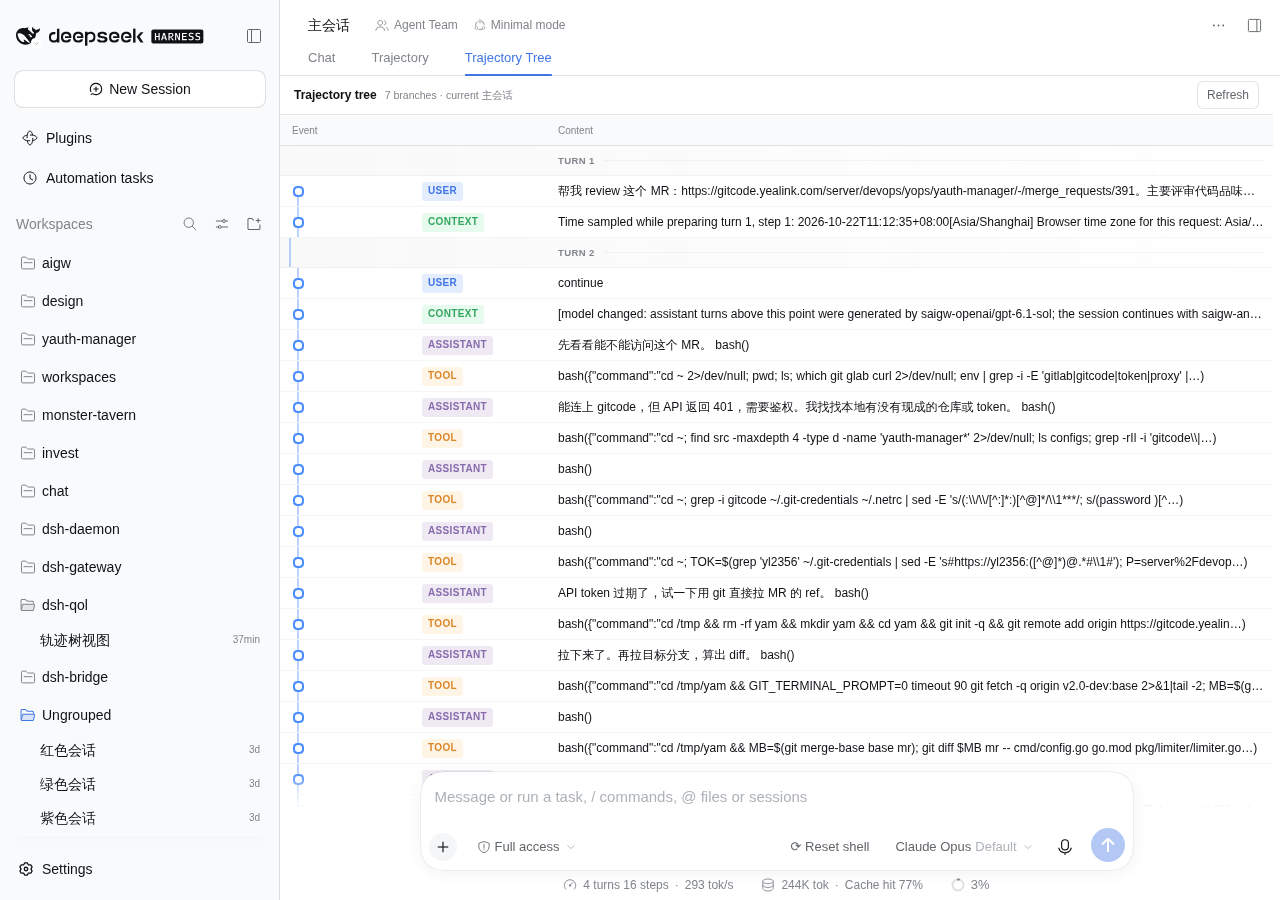
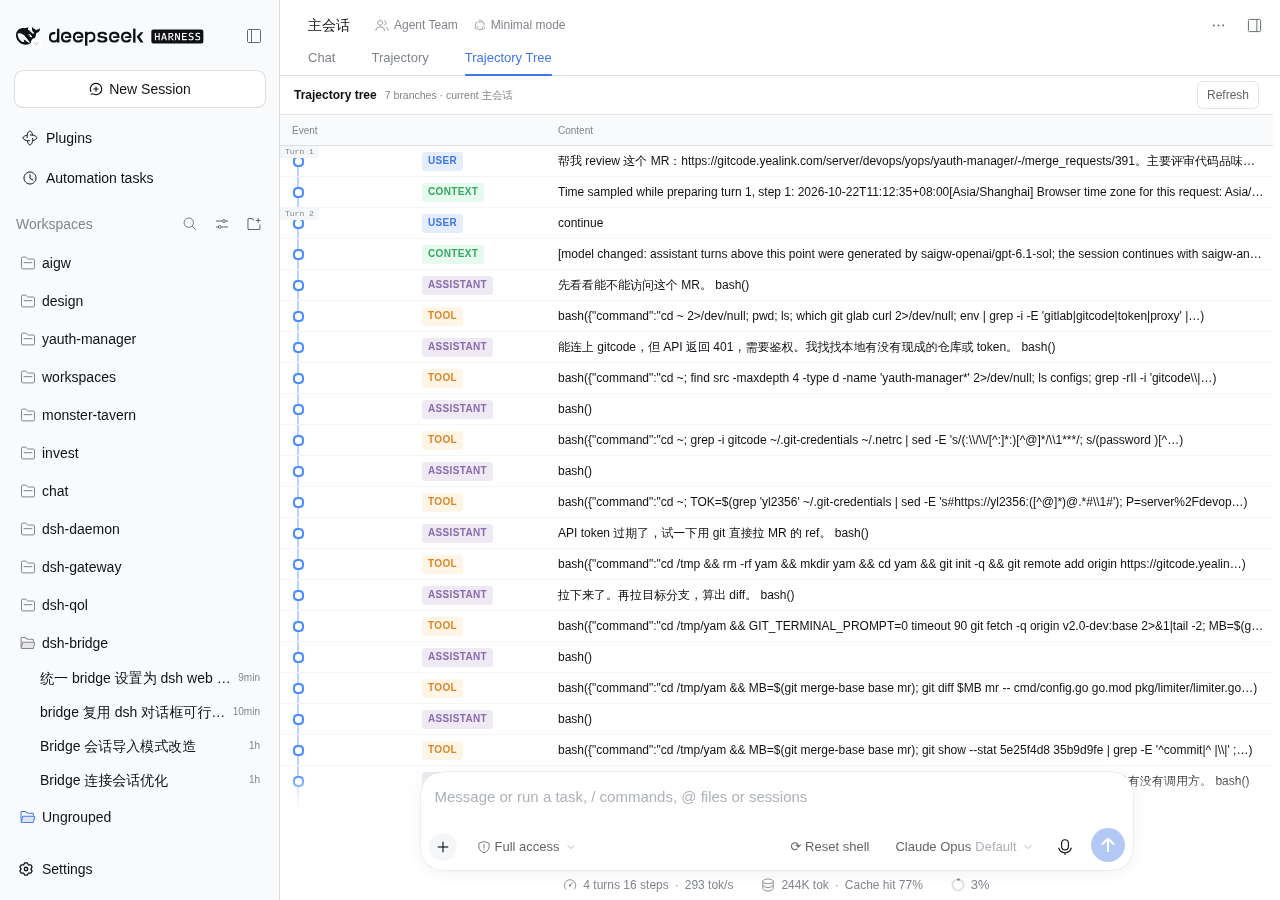
fix(dsh-session-tree): pin turn labels to the first row of each turn
Trajectory renders `Turn N` as a small overlay in the top-left corner of the
turn's first event row rather than as its own divider. The Trajectory Tree now
does the same: the turn marker is an absolutely positioned label inside the
row, so it no longer adds a 30px band or visually indents the following rows.

diff --git a/packages/dsh-session-tree/src/client.js b/packages/dsh-session-tree/src/client.js
@@ -133,9 +133,9 @@ window.__ModuleLoader__.load({
       '.dstt-head > span{padding:0 8px}',
       '.dstt-head > span:first-child{text-align:left;padding-left:12px}',
       '.dstt-scroll{flex:1;min-height:0;overflow:auto;padding-bottom:calc(var(--dsh-composer-height,152px) + 16px);scrollbar-width:thin;scrollbar-color:var(--dsw-alias-scrollbar-bg-l2) transparent}',
-      '.dstt-row{display:grid;grid-template-columns:var(--dstt-event-col,236px) minmax(0,1fr);height:30px;border-bottom:.5px solid var(--dsw-alias-border-l1);transition:background-color 120ms var(--ds-ease-in-out)}',
+      '.dstt-row{position:relative;display:grid;grid-template-columns:var(--dstt-event-col,236px) minmax(0,1fr);height:30px;border-bottom:.5px solid var(--dsw-alias-border-l1);transition:background-color 120ms var(--ds-ease-in-out)}',
       '.dstt-row:hover{background:var(--dsw-alias-interactive-bg-hover)}',
-      '.dstt-eventCell{display:flex;align-items:center;justify-content:flex-start;gap:6px;min-width:0;padding:0 8px 0 8px;overflow:hidden}',
+      '.dstt-eventCell{position:relative;display:flex;align-items:center;justify-content:flex-start;gap:6px;min-width:0;padding:0 8px 0 8px;overflow:hidden}',
       '.dstt-graph{position:relative;flex:none;height:30px}',
       '.dstt-graph svg{position:absolute;inset:0;overflow:visible;pointer-events:none}',
       '.dstt-lane{fill:none;stroke-width:1.4;stroke-linecap:round;opacity:.55}',
@@ -155,10 +155,7 @@ window.__ModuleLoader__.load({
       '.dstt-branchChip::before{content:"";width:4px;height:4px;border-radius:50%;background:var(--dstt-lane-color,var(--dsw-alias-state-business-primary));flex:none}',
       '.dstt-forkNote{flex:none;color:var(--dsw-alias-label-tertiary);font-size:9px;font-variant-numeric:tabular-nums}',
       '.dstt-hiddenNote{flex:none;margin-left:auto;color:var(--dsw-alias-label-tertiary);font-size:9.5px}',
-      '.dstt-turnRow{height:29px;background:linear-gradient(90deg,color-mix(in srgb,var(--dsw-alias-label-tertiary) 5%,transparent),transparent)}',
-      '.dstt-turnGraphCell{position:relative;display:flex;align-items:center;min-width:0;overflow:hidden}',
-      '.dstt-turnLabel{display:flex;align-items:center;gap:8px;min-width:0;padding:0 8px;color:var(--dsw-alias-label-tertiary);font-size:9.5px;font-weight:600;letter-spacing:.04em;text-transform:uppercase}',
-      '.dstt-turnLabel::after{content:"";flex:1;height:1px;background:var(--dsw-alias-border-l1)}',
+      '.dstt-turnLabel{position:absolute;z-index:3;top:0;left:0;max-width:100%;padding:1px 5px;border-radius:0 0 2px;background:var(--dsw-alias-bg-module-platform);color:var(--dsw-alias-label-tertiary);font:8px/10px var(--ds-font-family-code);font-variant-numeric:tabular-nums;white-space:nowrap;overflow:hidden;text-overflow:ellipsis;pointer-events:none;user-select:none}',
       '.dstt-empty{display:flex;align-items:center;justify-content:center;height:100%;padding:24px;color:var(--dsw-alias-label-tertiary);font-size:12px;text-align:center}',
       '.dstt-toast{position:fixed;left:50%;bottom:28px;transform:translateX(-50%);z-index:1300;max-width:min(620px,calc(100vw - 32px));box-sizing:border-box;border-radius:10px;padding:9px 13px;background:var(--dsw-alias-bg-layer-1,var(--dsw-alias-bg-primary));box-shadow:var(--dsw-elevation-prominent,0 10px 30px rgba(0,0,0,.24));color:var(--dsw-alias-label-primary);font-size:12px;line-height:18px}',
     ].join('')
@@ -601,25 +598,25 @@ window.__ModuleLoader__.load({
       const lastTurnBySession = new Map()
       for (const row of eventRows) {
         const previousTurn = lastTurnBySession.get(row.sessionId)
-        if (row.lane === 0
+        const turnStart = row.lane === 0
           && pathSet.has(row.sessionId)
           && typeof row.event?.turn === 'number'
-          && row.event.turn !== previousTurn) {
-          lastTurnBySession.set(row.sessionId, row.event.turn)
-          decorated.push({ kind: 'turn', turn: row.event.turn, sessionId: row.sessionId, rowPosition: decorated.length })
+          && row.event.turn !== previousTurn
+        if (turnStart) lastTurnBySession.set(row.sessionId, row.event.turn)
+        const decoratedRow = {
+          ...row,
+          rowPosition: decorated.length,
+          ...(turnStart ? { turnStart: row.event.turn } : {}),
         }
-        const decoratedRow = { ...row, rowPosition: decorated.length }
         decoratedByOriginal.set(row, decoratedRow)
         decorated.push(decoratedRow)
       }
 
       // Convert the fork-anchor references into a per-row edge plan.
       const indexOfRow = new Map()
-      decorated.forEach((row, index) => {
-        if (row.kind === 'event') indexOfRow.set(row, index)
-      })
+      decorated.forEach((row, index) => indexOfRow.set(row, index))
       for (const [childIndex, row] of decorated.entries()) {
-        if (row.kind !== 'event' || !row.branchStart || row.forkAnchorRow === undefined) continue
+        if (!row.branchStart || row.forkAnchorRow === undefined) continue
         const anchorDecorated = decoratedByOriginal.get(row.forkAnchorRow)
         const anchorIndex = anchorDecorated === undefined ? undefined : indexOfRow.get(anchorDecorated)
         if (anchorIndex === undefined || childIndex <= anchorIndex) continue
@@ -639,7 +636,6 @@ window.__ModuleLoader__.load({
       const firstByLane = new Map()
       const lastByLane = new Map()
       decorated.forEach((row, index) => {
-        if (row.kind !== 'event') return
         if (!firstByLane.has(row.lane)) firstByLane.set(row.lane, index)
         lastByLane.set(row.lane, index)
       })
@@ -733,18 +729,6 @@ window.__ModuleLoader__.load({
       )
     }
 
-    function TreeTurnRow({ row, maxLane, firstByLane, lastByLane }) {
-      return React.createElement('div', { className: 'dstt-row dstt-turnRow' },
-        React.createElement('div', { className: 'dstt-turnGraphCell' },
-          React.createElement('span', {
-            className: 'dstt-graph',
-            style: { width: `${(maxLane + 1) * 20 + 8}px` },
-          }, React.createElement(TreeLanes, { row, maxLane, firstByLane, lastByLane })),
-        ),
-        React.createElement('div', { className: 'dstt-turnLabel' }, t('turn', { turn: row.turn })),
-      )
-    }
-
     function TreeRow({ row, maxLane, firstByLane, lastByLane, onToggle }) {
       const color = treeLaneColor(row.lane)
       const graph = TreeGraph({ row, maxLane, firstByLane, lastByLane, onToggle })
@@ -754,10 +738,14 @@ window.__ModuleLoader__.load({
         'data-branch-id': row.branchId,
         'data-mainline': row.isMainline || undefined,
         'data-lane': row.lane,
+        'data-turn-start': row.turnStart !== undefined || undefined,
         style: { '--dstt-lane-color': color },
       },
         React.createElement('div', { className: 'dstt-eventCell' },
           graph,
+          row.turnStart === undefined
+            ? null
+            : React.createElement('span', { className: 'dstt-turnLabel' }, t('turn', { turn: row.turnStart })),
           React.createElement('span', {
             className: 'dstt-kindTag',
             'data-kind': treeKindForRole(row.event.role),
@@ -842,22 +830,14 @@ window.__ModuleLoader__.load({
         React.createElement('div', { className: 'dstt-scroll' },
           projection.rows.length === 0
             ? React.createElement('div', { className: 'dstt-empty' }, t('empty'))
-            : projection.rows.map((row, index) => row.kind === 'turn'
-                ? React.createElement(TreeTurnRow, {
-                    key: `turn-${row.turn}-${index}`,
-                    row,
-                    maxLane: projection.maxLane,
-                    firstByLane: projection.firstByLane,
-                    lastByLane: projection.lastByLane,
-                  })
-                : React.createElement(TreeRow, {
-                    key: `${row.sessionId}-${row.event.seq}-${index}`,
-                    row,
-                    maxLane: projection.maxLane,
-                    firstByLane: projection.firstByLane,
-                    lastByLane: projection.lastByLane,
-                    onToggle,
-                  })),
+            : projection.rows.map((row, index) => React.createElement(TreeRow, {
+                key: `${row.sessionId}-${row.event.seq}-${index}`,
+                row,
+                maxLane: projection.maxLane,
+                firstByLane: projection.firstByLane,
+                lastByLane: projection.lastByLane,
+                onToggle,
+              })),
         ),
       )
     }

diff --git a/packages/dsh-session-tree/README.md b/packages/dsh-session-tree/README.md
@@ -6,7 +6,7 @@ A DSH Web component that adds a dedicated **Trajectory Tree** conversation View,
 
 - **Dedicated Trajectory Tree tab** — its own Conversation View beside Chat and Trajectory. It does not inject into or restyle the native Trajectory ledger.
 - **Git-style lanes** — the Session path you are viewing is re-rooted as lane 0 (the main trunk). Every ancestor Session's other forks and its own later events become side lanes, including an explicit `Original mainline` lane when you are viewing a fork. There are no merge edges.
-- **DSH-native visual language** — the same 30px ledger rows, kind pills, turn separators, borders, and muted colors as Trajectory.
+- **DSH-native visual language** — the same 30px ledger rows, kind pills, borders, and muted colors as Trajectory. The `Turn N` label sits in the top-left corner of the turn's first row, exactly like Trajectory, without a separate divider row.
 - **Expand / collapse** — a `−/+` node at each side fork folds the whole descendant subtree and reports how many rows are hidden.
 - **Full family** — every Session in the connected family is projected, not only the selected Session's descendants.
 - **Edit a sent message** — the pencil sits beside the Host's own Copy button on every user message. The Host forks from the event immediately before that Turn, then sends the edited prompt into the new Session.

diff --git a/packages/dsh-session-tree/README.zh.md b/packages/dsh-session-tree/README.zh.md
@@ -6,7 +6,7 @@
 
 - **独立轨迹树 Tab**：作为 Conversation View 注册在 Chat、Trajectory 旁边，不再往原生轨迹 DOM 注入任何东西。
 - **git 式 lane**：你打开的这个会话被重新视为主干 lane 0。祖先会话的其它分叉、以及旧主线在该分叉之后的继续，都显示为侧 lane；查看分叉会话时会明确标出 `原主线继续`。只会有分叉，不会有合入。
-- **沿用 DSH 视觉**：和 Trajectory 一样的 30px 行高、类型胶囊、轮次分隔、边框和弱化色。
+- **沿用 DSH 视觉**：和 Trajectory 一样的 30px 行高、类型胶囊、边框和弱化色；`第 N 轮` 和 Trajectory 一样贴在每轮第一行的左上角，不单独占一行。
 - **展开 / 收起**：每个侧分支分叉点有 `−/+` 节点，可折叠整棵子分支，并显示隐藏了多少行。
 - **完整 family**：展示整棵连通会话树，而不只是当前会话的后代。
 - **任意事件分叉**：每条事件行都有「从此后分叉」；时间线底部还可输入精确事件序号。
